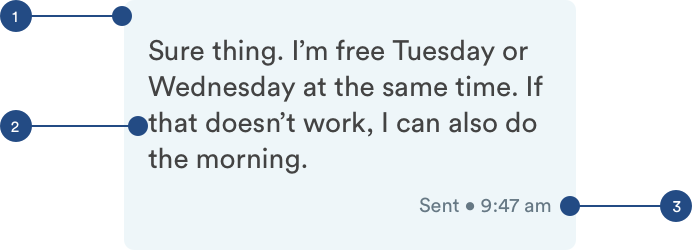
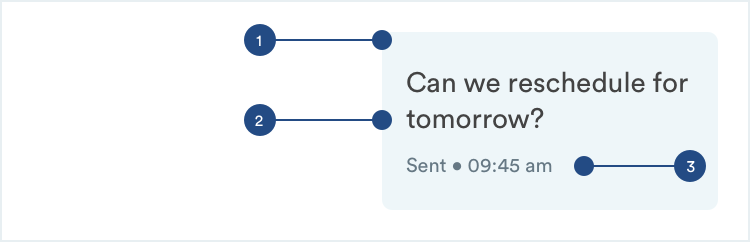
GitBook: [master] 7 pages and 6 assets modified

diff --git a/native/message-threads.md b/native/message-threads.md
@@ -1,10 +1,28 @@
+---
+description: Message Bubbles are populated with messages sent between pros and customers.
+---
+
 # Message Bubbles
 
-## Message Bubbles
+## Usage of Message Bubbles
 
-Message bubbles house messages in the message thread. Depending on the context, the chat bubbles change styles.
+Message bubbles include the message from the user and the time it was sent. Depending on the context and length of the messages, the style of message bubble changes.
 
-### Sent Messages
+![](../.gitbook/assets/message-overview.png)
+
+## Types of Message Bubbles
+
+[**1. Sent Messages \(m-message-sent\)**](message-threads.md#sent-messages-m-message-sent)\*\*\*\*
+
+![](../.gitbook/assets/sent-message.png)
+
+\*\*\*\*[**2. Received Messages \(m-message-received\)**](message-threads.md#received-messages-m-message-received)
+
+![](../.gitbook/assets/received-message.png)
+
+## Sent Messages \(m-message-sent\)
+
+When a user is sending the message to another message, that message will be populated in the chat detail view. Depending on the length of the message, the UI's max width will change.
 
 ![](../.gitbook/assets/sent-bubbles.png)
 
@@ -12,32 +30,42 @@ Message bubbles house messages in the message thread. Depending on the context, 
 
 ```text
 background: light-handy-blue 
-max-width: 66.667% (excluding margins)
 border-radius: 5px
+
+m-message-sent-long:
+max-width: 66.667% (excluding margins)
+
+m-message-sent-medium:
+max-width: 50% (excluding margins)
+
+m-message-sent-short:
+max-width: 33.333% (excluding margins)
 ```
 
-2. Message Text
+2. Message Text \(a-text-paragraph\)
 
 ```text
 font-weight: book
 font-size: 16px
 font-color: text-black
+
 padding-top: 16px
 padding-left: 12px
 padding-right: 12px
-padding-bottom:8px
+padding-bottom: 8px
 ```
 
-3. Time Stamp
+3. Time Stamp \(a-text-label\)
 
 ```text
 font-weight: book
 font-size: 10px
-font-color: medium-dark-slate
+font-color: slate-dark
+
 padding-bottom: 16px
 ```
 
-### Received Messages
+## Received Messages m-message-received
 
 Received messages will adopt most of the stylings of sent messages.
 
@@ -47,8 +75,38 @@ Received messages will adopt most of the stylings of sent messages.
 
 ```text
 background: dark-white 
+border-radius: 5px
+
+m-message-sent-long:
 max-width: 66.667% (excluding margins)
+
+m-message-sent-medium:
+max-width: 50% (excluding margins)
+
+m-message-sent-short:
+max-width: 33.333% (excluding margins)
 ```
 
+2. Message Text \(a-text-paragraph\)
 
+```text
+font-weight: book
+font-size: 16px
+font-color: text-black
+
+padding-top: 16px
+padding-left: 12px
+padding-right: 12px
+padding-bottom: 8px
+```
+
+3. Time Stamp \(a-text-label\)
+
+```text
+font-weight: book
+font-size: 10px
+font-color: slate-dark
+
+padding-bottom: 16px
+```
 

diff --git a/SUMMARY.md b/SUMMARY.md
@@ -19,11 +19,11 @@
     * [Pro Cards](native/action-cards/pro-cards.md)
     * [Message Cards](native/action-cards/message-cards.md)
   * [Settings](native/settings.md)
+  * [Reviews](native/reviews.md)
+  * [Icon Lists](native/icon-lists.md)
   * [Half Sheets](native/half-sheets.md)
   * [Modal](native/modal.md)
   * [Banners](native/banners.md)
-  * [Reviews](native/reviews.md)
-  * [Icon Lists](native/icon-lists.md)
   * [Tabs](native/tabs.md)
   * [Navigation](native/navigation.md)
   * [Message Bubbles](native/message-threads.md)

diff --git a/README.md b/README.md
@@ -12,6 +12,8 @@ This guide contains information about design standards for Handy's products.
 
 Yes, after a few months we finally found the answer. Sadly, Mike is on vacations right now so I'm afraid we are not able to provide the answer at this point. rgergergergergergerg
 
+Yes, after a few months we finally found the answer. Sadly, Mike is on vacations right now so I'm afraid we are not able to provide the answer at this point. rgegergerg
+
 ## Testing
 
 Testing to see if this is working

diff --git a/native/modal.md b/native/modal.md
@@ -10,7 +10,7 @@ Modals disable all app functionality and remain on the screen until a required a
 
 ![](../.gitbook/assets/modal-overview.png)
 
-## Modals \(m-modal\)
+## Anatomy of Modals \(m-modal\)
 
 Due to its disruptive nature, modals should be used sparingly. Examples include abandoned checkout,  Handy Select booking cancellation, late fees, plan cancellation, and sign out.
 

diff --git a/native/half-sheets.md b/native/half-sheets.md
@@ -18,7 +18,7 @@ Half sheets display supplementary actions \(filtering a list\) or content \(from
 
 ![](../.gitbook/assets/action-half-sheet.png)
 
-2. Informational Half Sheet \(m-half\_sheet-info\)
+\*\*\*\*[**2. Informational Half Sheet \(m-half\_sheet-info\)**](half-sheets.md#informational-half-sheet-m-half_sheet-info)\*\*\*\*
 
 ![](../.gitbook/assets/info-half-sheet.png)
 

diff --git a/native/action-cards/README.md b/native/action-cards/README.md
@@ -27,7 +27,7 @@ Pro cards give users key information about a professional. Depending of the cont
 **3.** [**Messages \(m-card-message\)**](message-cards.md)  
 Message cards reflect key information about the message received.
 
-![Message Cards](../../.gitbook/assets/message-overview.png)
+![Message Cards](../../.gitbook/assets/message-overview%20%281%29.png)
 
 
 

diff --git a/native/icon-lists.md b/native/icon-lists.md
@@ -1,3 +1,7 @@
+---
+description: Content paired with an icon.
+---
+
 # Icon Lists
 
 ## Icon Lists
